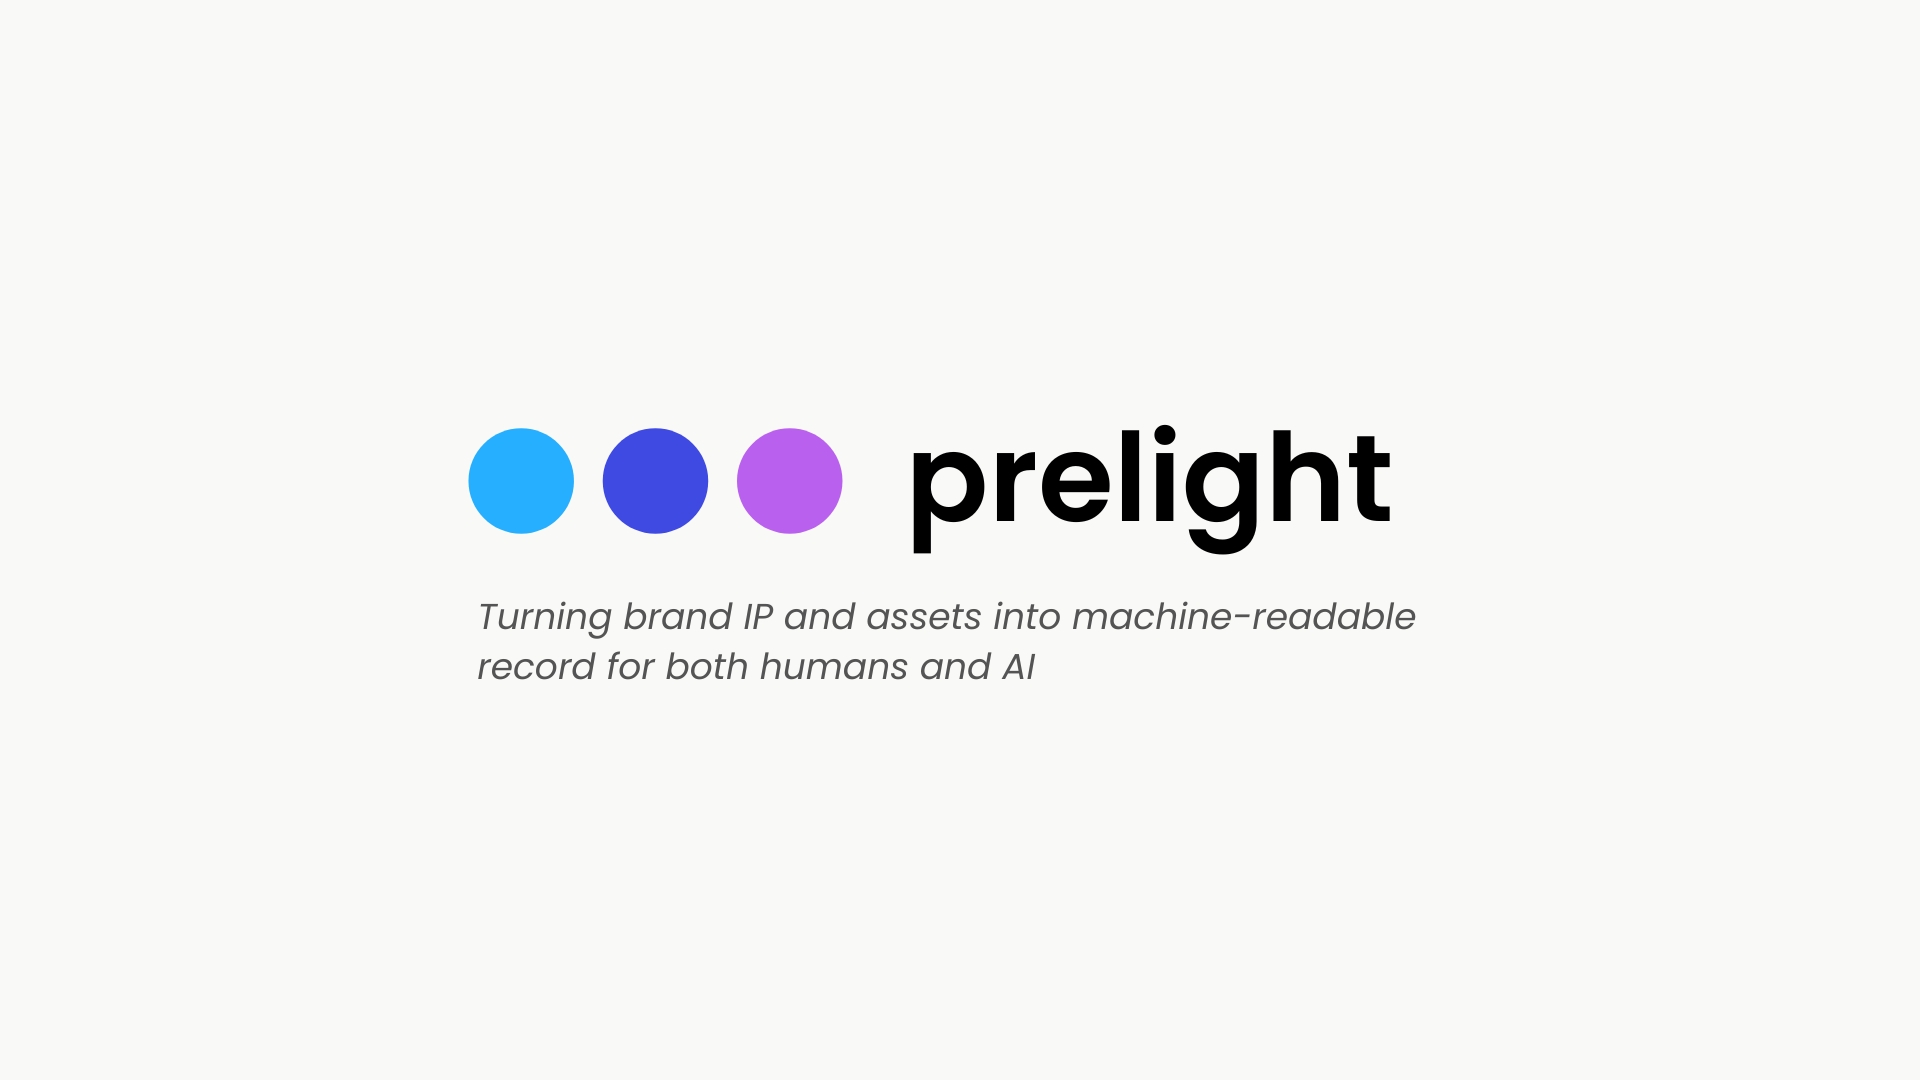
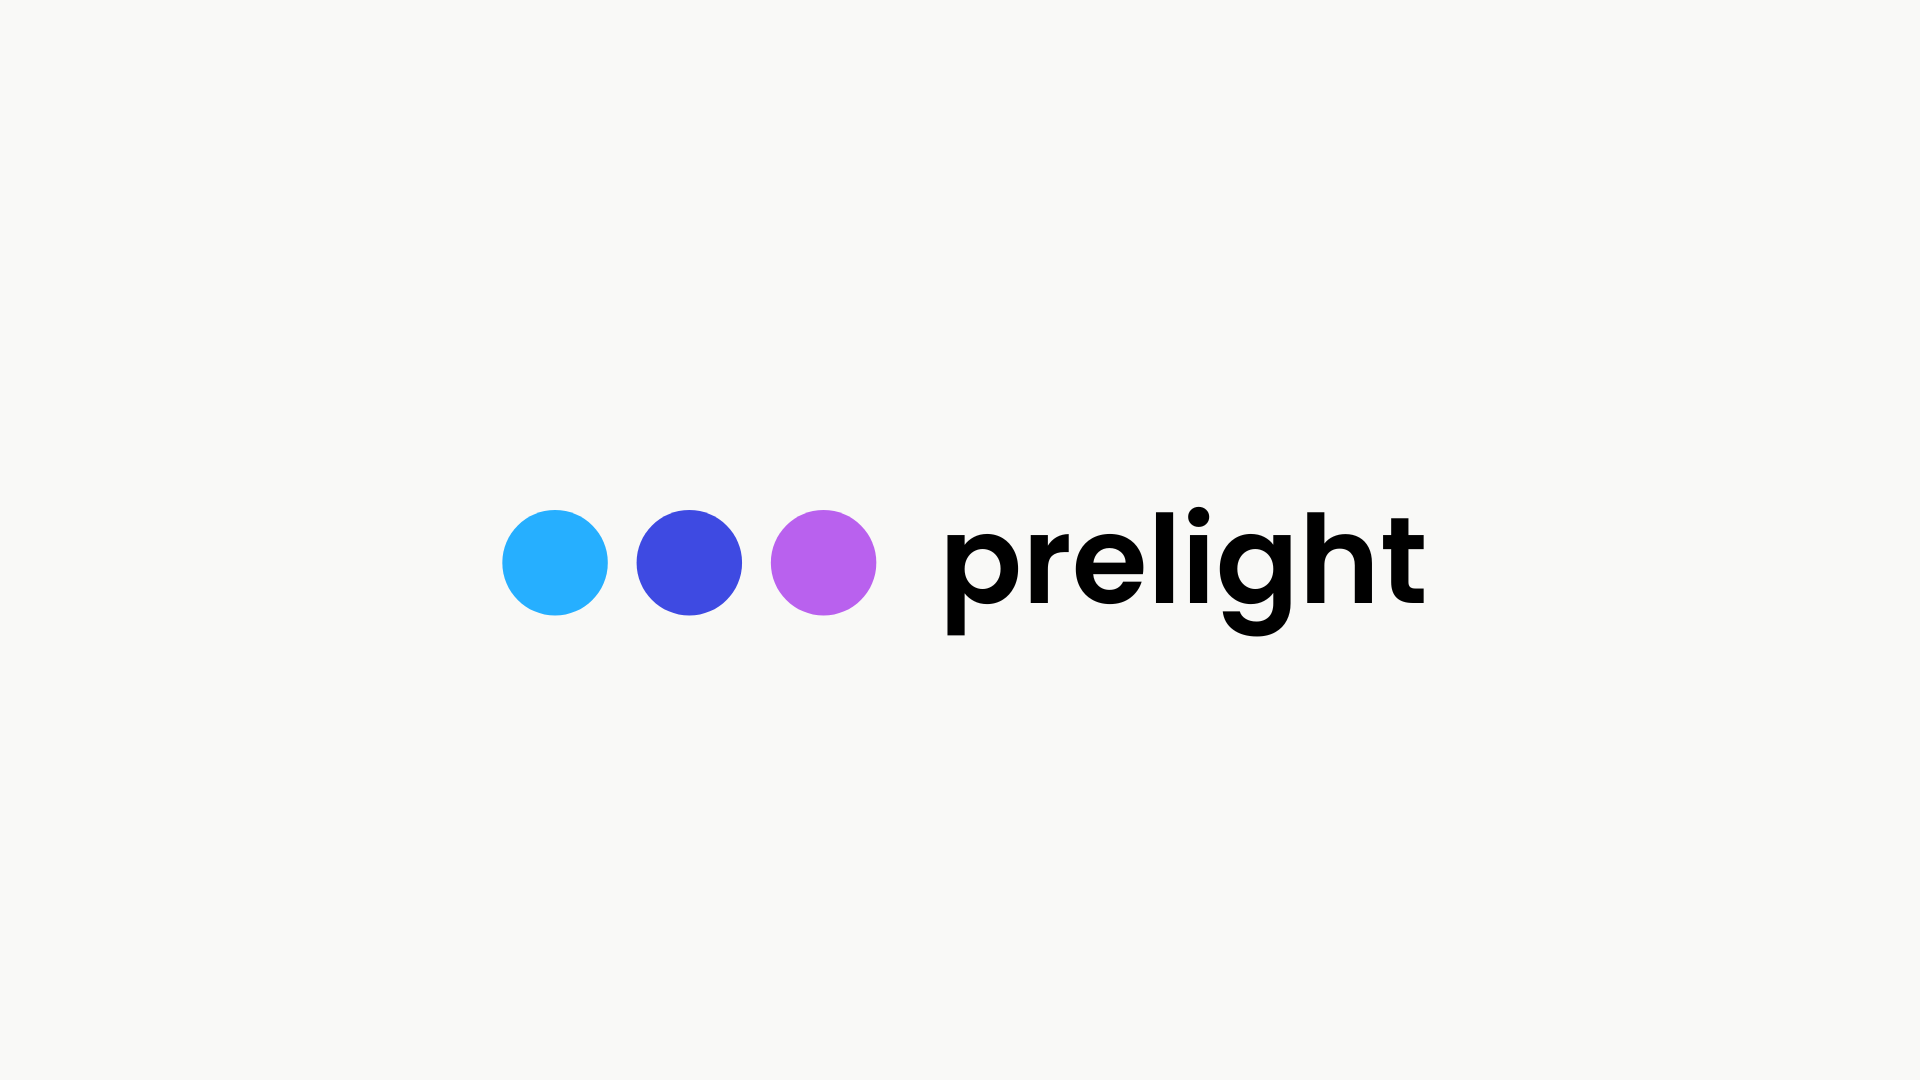
case study

Changed region(s): [[0.2188, 0.3972, 0.75, 0.6417]]

diff --git a/src/data/portfolioData.js b/src/data/portfolioData.js
@@ -43,7 +43,7 @@ export const caseStudies = [
     timeline: "10 Weeks",
     tools: ["Figma", "Vue.js", "TypeScript", "Tailwind CSS", "Claude Code", "Figma Make"],
     coverImage: getAssetUrl("case_studies/Prelight/Prelight.png"),
-    headerImage: getAssetUrl("case_studies/Prelight/Prelight.png"),
+    headerImage: getAssetUrl("case_studies/Prelight/Prelight2.png"),
     sections: [
       {
         id: "overview",
